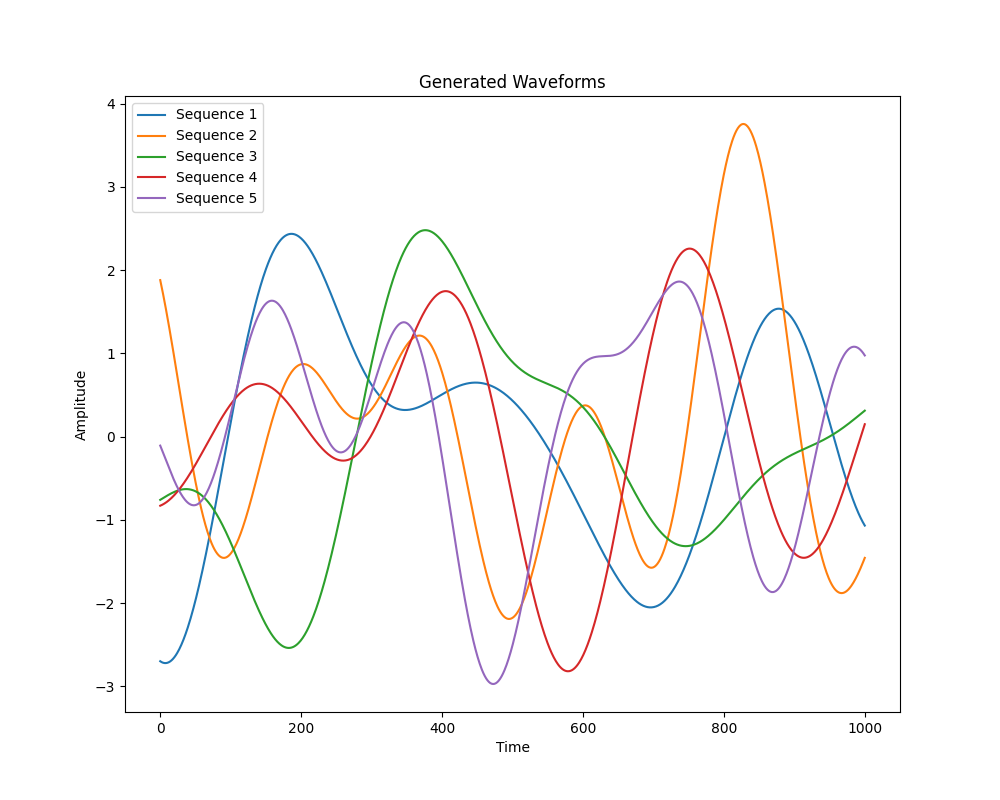
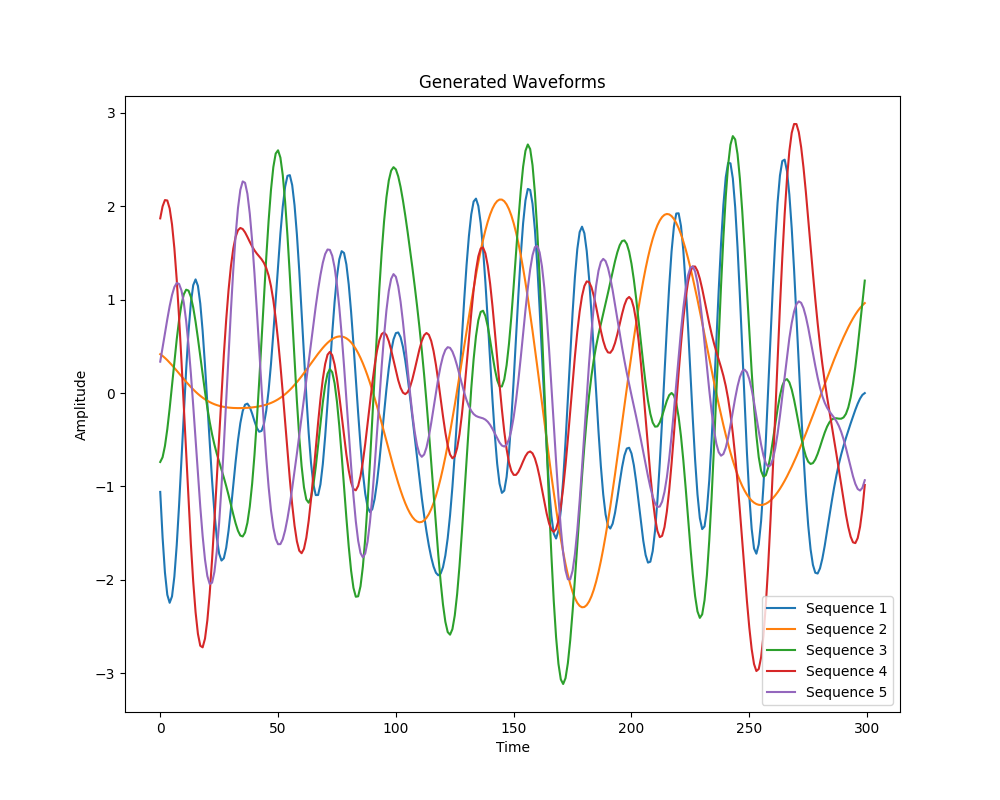
broken: device does not work

diff --git a/playground/playground.py b/playground/playground.py
@@ -3,56 +3,12 @@ import torch.nn as nn
 import numpy as np
 import matplotlib.pyplot as plt
 
-# Check for MPS availability and use it
-device = torch.device("mps" if torch.backends.mps.is_available() else "cpu")
-print(f"Using device: {device}")
-
-
-class TransformerDecoderModel(nn.Module):
-    def __init__(self, input_dim, pos_dim, sequence_length, nhead, num_decoder_layers, dim_feedforward):
-        super().__init__()
-        self.embedding = nn.Linear(input_dim, dim_feedforward).to(device)
-        self.pos_encoder = PositionalEncoding(sequence_length, pos_dim).to(device)
-        self.transformer_decoder = nn.TransformerDecoder(
-            nn.TransformerDecoderLayer(d_model=dim_feedforward + pos_dim, nhead=nhead,
-                                       dim_feedforward=dim_feedforward).to(device),
-            num_layers=num_decoder_layers
-        ).to(device)
-        self.fc_out = nn.Linear(dim_feedforward + pos_dim, input_dim).to(device)
-
-    def forward(self, src):
-        src = self.embedding(src)
-        src = self.pos_encoder(src)
-        src = src.permute(1, 0, 2)  # Shape should be (seq_len, batch_size, feature)
-        tgt_mask = self.generate_square_subsequent_mask(src.size(0))
-        output = self.transformer_decoder(tgt=src, memory=src, tgt_mask=tgt_mask)
-        output = output.permute(1, 0, 2)
-        return self.fc_out(output)
-
-    def generate_square_subsequent_mask(self, sz):
-        return torch.triu(torch.full((sz, sz), float('-inf'), device=device), diagonal=1)
-
-# Ensure all data tensors are sent to the appropriate device
-
-
-def prepare_data(waveforms, window_size):
-    inputs = []
-    targets = []
-    for waveform in waveforms:
-        for start in range(waveform.shape[0] - window_size):
-            inputs.append(waveform[start:start+window_size])
-            targets.append(waveform[start+window_size])
-    inputs = torch.tensor(inputs, dtype=torch.float32).unsqueeze(-1).to(device)
-    targets = torch.tensor(targets, dtype=torch.float32).unsqueeze(-1).to(device)
-    return inputs, targets
+# Waveform Generation
 
 
 def generate_waveforms(num_sequences, sequence_length, num_modes, freq_range, amp_range, phase_range):
-    """
-    Generates a dataset of waveforms, each composed of a sum of sinusoidal modes.
-    """
     waveforms = np.zeros((num_sequences, sequence_length))
-    t = np.linspace(0, 3, sequence_length, endpoint=False)  # Assume 3 full cycles in the extended sequence
+    t = np.linspace(0, 3, sequence_length, endpoint=False)
     for i in range(num_sequences):
         for _ in range(num_modes):
             frequency = np.random.uniform(*freq_range)
@@ -60,6 +16,8 @@ def generate_waveforms(num_sequences, sequence_length, num_modes, freq_range, am
             phase = np.random.uniform(*phase_range)
             waveforms[i] += amplitude * np.sin(2 * np.pi * frequency * t + phase)
     return waveforms
+
+# Positional Encoding Module
 
 
 class PositionalEncoding(nn.Module):
@@ -71,103 +29,127 @@ class PositionalEncoding(nn.Module):
         pos_embedding = self.pos_embedding.unsqueeze(0).expand(x.size(0), -1, -1)
         return torch.cat((x, pos_embedding), dim=2)
 
+# Transformer Decoder Model with Positional Encoding
+
+
+class TransformerDecoderModel(nn.Module):
+    def __init__(self, input_dim, pos_dim, sequence_length, nhead, num_decoder_layers, dim_feedforward):
+        super().__init__()
+        self.embedding = nn.Linear(input_dim, dim_feedforward)
+        self.pos_encoder = PositionalEncoding(sequence_length, pos_dim)
+        self.transformer_decoder = nn.TransformerDecoder(
+            nn.TransformerDecoderLayer(d_model=dim_feedforward + pos_dim, nhead=nhead, dim_feedforward=dim_feedforward),
+            num_layers=num_decoder_layers
+        )
+        self.fc_out = nn.Linear(dim_feedforward + pos_dim, input_dim)
+
+    def forward(self, src):
+        src = self.embedding(src)
+        src = self.pos_encoder(src)
+        src = src.permute(1, 0, 2)  # seq_len, batch, feature
+        output = self.transformer_decoder(src, src)  # No mask needed for full sequence in training
+        output = output.permute(1, 0, 2)  # Convert back to batch, seq_len, feature
+        return self.fc_out(output)
+
+# Training Function using Teacher Forcing
+
 
 def train(model, dataloader, loss_fn, optimizer, num_epochs):
     model.train()
-    losses = []
     for epoch in range(num_epochs):
-        print("epoch")
-        print("len dataloader: ", len(dataloader))
         total_loss = 0
         for input_batch, target_batch in dataloader:
-            print("batch")
-            print("input_batch: ", input_batch.shape)
             optimizer.zero_grad()
             output_batch = model(input_batch)
-            print("output_batch: ", output_batch.shape)
-            input()
-            loss = loss_fn(output_batch[:, -1], target_batch)
-            total_loss += loss.item()
+            loss = loss_fn(output_batch, target_batch)
             loss.backward()
             optimizer.step()
-        avg_loss = total_loss / len(dataloader)
-        losses.append(avg_loss)
-        print(f'Epoch {epoch+1}/{num_epochs}, Loss: {avg_loss}')
-    return losses
+            total_loss += loss.item()
+        print(f'Epoch {epoch+1}: Loss {total_loss / len(dataloader)}')
+
+# Autoregressive Inference and Visualization
 
 
-# Example of adjusting the main script:
+def autoregressive_inference(model, initial_input, total_length):
+    model.eval()
+    with torch.no_grad():
+        input_sequence = initial_input
+        predictions = []
+        for _ in range(total_length - len(initial_input)):
+            output = model(input_sequence)
+            next_value = output[:, -1:, :]
+            predictions.append(next_value)
+            input_sequence = torch.cat((input_sequence, next_value), dim=1)
+        return torch.cat(predictions, dim=1)
+
+
+# Main Script
 if __name__ == "__main__":
-    base_sequence_length = 256
-    num_sequences = 10
-    sequence_length = base_sequence_length * 3  # Extended sequence length
+    # Parameters
+    num_epochs = 1
+    num_sequences = 50
+    sequence_length = 300  # Total length including input and predicted part
     num_modes = 5
     freq_range = (1, 5)
     amp_range = (0.5, 1.0)
     phase_range = (0, 2 * np.pi)
 
+    # Generate Data
     waveforms = generate_waveforms(num_sequences, sequence_length, num_modes, freq_range, amp_range, phase_range)
-    inputs, targets = prepare_data(waveforms, base_sequence_length)
+    inputs = torch.tensor(waveforms, dtype=torch.float32).unsqueeze(-1)  # Add feature dimension
 
-    print("prepared data")
-    print("num inputs: ", inputs.shape)
-    print("num targets: ", targets.shape)
-
-    dataset = torch.utils.data.TensorDataset(inputs, targets)
-    dataloader = torch.utils.data.DataLoader(dataset, batch_size=32, shuffle=True)
-
-    model = TransformerDecoderModel(
-        input_dim=1,
-        pos_dim=16,
-        sequence_length=base_sequence_length,  # Input window size for the model
-        nhead=8,
-        num_decoder_layers=6,
-        dim_feedforward=512
-    ).to(device)
-
-    loss_fn = nn.MSELoss().to(device)
-    optimizer = torch.optim.Adam(model.parameters(), lr=0.0001)
-
-    # Train the model
-    print("training model")
-    losses = train(model, dataloader, loss_fn, optimizer, num_epochs=1)
-    print("trained model")
-
-    # Plot the training loss curve
-    plt.figure(figsize=(10, 5))
-    plt.plot(losses, label='Training Loss')
-    plt.xlabel('Epochs')
-    plt.ylabel('Loss')
-    plt.title('Loss Curve')
-    plt.legend()
-    plt.savefig('loss_curve.png')
-
-    # Function to perform autoregressive inference
-    def autoregressive_inference(model, initial_sequence, total_length=base_sequence_length):
-        model.eval()
-        with torch.no_grad():
-            generated_sequence = initial_sequence.clone()
-            current_input = initial_sequence
-            while generated_sequence.shape[1] < total_length:
-                next_step = model(current_input)[:, -1:, :]  # Predict the next step
-                generated_sequence = torch.cat((generated_sequence, next_step), dim=1)  # Append to the sequence
-                current_input = torch.cat((current_input[:, 1:, :], next_step), dim=1)  # Slide the window
-            return generated_sequence
-
-    print("autoregressive_inference")
-
-    # Select a sample from the dataset to demonstrate autoregressive inference
-    sample = inputs[:1]  # Take the first sample from the dataset
-    predicted_waveform = autoregressive_inference(model, sample)
-
-    print("predicted_waveform")
-
-    # Plot the original and the predicted waveform
-    plt.figure(figsize=(15, 5))
-    plt.plot(inputs[0].squeeze().cpu().numpy(), label='Original')
-    plt.plot(predicted_waveform.squeeze().cpu().numpy(), label='Predicted', linestyle='--')
-    plt.legend()
-    plt.title('Comparison of Original and Predicted Waveform')
+    # Plot the first few waveforms
+    plt.figure(figsize=(10, 8))
+    for i in range(min(num_sequences, 5)):  # Plot only the first 5 sequences
+        plt.plot(waveforms[i], label=f'Sequence {i+1}')
+    plt.title('Generated Waveforms')
     plt.xlabel('Time')
     plt.ylabel('Amplitude')
-    plt.savefig('predicted_waveform.png')
+    plt.legend()
+    plt.savefig('waveforms.png')
+
+    print("inputs shape: ", inputs.shape)
+    input()
+
+    # Create Dataset
+    dataset = torch.utils.data.TensorDataset(inputs[:, :-1, :], inputs[:, 1:, :])  # Shifted by one for teacher forcing
+    dataloader = torch.utils.data.DataLoader(dataset, batch_size=10, shuffle=True)
+
+    # Initialize Model
+    model = TransformerDecoderModel(
+        input_dim=1,
+        pos_dim=10,
+        sequence_length=sequence_length-1,  # Minus one because we're shifting for teacher forcing
+        nhead=4,
+        num_decoder_layers=3,
+        dim_feedforward=50
+    )
+
+    # Move model to appropriate device
+    device = torch.device("mps")
+    model.to(device)
+
+    # Setup Loss and Optimizer
+    loss_fn = nn.MSELoss()
+    optimizer = torch.optim.Adam(model.parameters(), lr=0.0001)
+
+    # Train the Model
+    train(model, dataloader, loss_fn, optimizer, num_epochs)
+
+    # Autoregressive Inference for Visualization
+    test_input = inputs[0:1, :int(sequence_length * 0.2), :]  # Use the first 20% as starting input
+    predicted_output = autoregressive_inference(model, test_input, sequence_length)
+    predicted_output = predicted_output.squeeze().cpu().numpy()
+
+    # Visualization of the results
+    plt.figure(figsize=(12, 6))
+    plt.plot(np.arange(sequence_length), waveforms[0], label='Original Full Waveform')
+    plt.plot(np.arange(int(sequence_length * 0.2), sequence_length),
+             predicted_output, label='Predicted Waveform', linestyle='--')
+    plt.axvline(x=int(sequence_length * 0.2), color='r', linestyle=':', label='Start of Prediction')
+    plt.legend()
+    plt.title('Comparison of Original and Predicted Waveforms')
+    plt.xlabel('Time Steps')
+    plt.ylabel('Waveform Amplitude')
+    plt.savefig('waveform_comparison.png')
+    plt.show()
